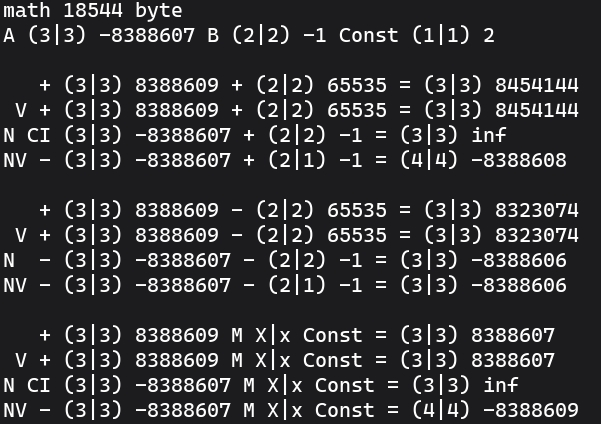
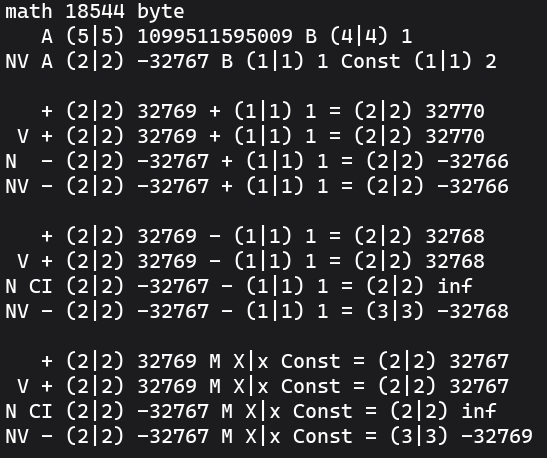
v11.5

diff --git a/math.c b/math.c
@@ -12,15 +12,15 @@ void FInit(anu x, anu y, an r, anu c, an a) { while(x--) *r-- = 0;
   c = (c > y) ? y : c; while(c--) *++r = *a++; }
 void FAddr(anu y, As* r, anu c, As* a) {
   c = (c > y) ? y : c; while(c--) *r++ = *a++; }
-void FSWAP(anu l, an r, an a) { Mat.fa = !(l & 1); Mat.r = r + l; Mat.a = a + l;
-  Mat.na = *a++; *r++ = (l) ? *Mat.a--:0; *Mat.r-- = Mat.na; if ((l >>= 1)) {
-    while(--l) { Mat.na = *a++; *r++ = *Mat.a--; *Mat.r-- = Mat.na; } if (Mat.fa) *r = *a; } }
+void FSWAP(anu l, an r, an a) { Mat.a = a + l; Mat.r = r + l;
+  Mat.da = *a++; *r++ = (l) ? *Mat.a--:Mat.da; *Mat.r-- = Mat.da; l >>= 1;
+  while(l--) { Mat.da = *a++; *r++ = *Mat.a--; *Mat.r-- = Mat.da; } }
 
 void FLD(an r, anu D) { Mat.l = 0;
   Mat.N = Mat.Nim ? (D & 0x80) ? 0xFF:0:0; Mat.F = (D) ? (Mat.Nim && (D == 0x80)) ? 2:0:1; *r = D; }
-void FLVD(an r, anu Dl, anu Dh) { Mat.l = 1; *r++ = Dl; Mat.N = Mat.Nim ? (Dh & 0x80) ? 0xFF:0:0;
+void FLVD(an r, anu Dl, anu Dh) { Mat.l = 1; *r = Dl; Mat.N = Mat.Nim ? (Dh & 0x80) ? 0xFF:0:0;
   if ((Mat.F = (Dl || Dh) ? (!Dl && Mat.Nim && (Dh == 0x80)) ? 2:0:1)) {
-    if (Mat.V) { Mat.l--; *--r = Dh; } return; } *r = Dh;
+    if (Mat.V) { Mat.l--; *r = Dh; } return; } *++r = Dh;
   if (Mat.V && Dh == Mat.N && !(Mat.Nim && ((Dl ^ Mat.N) & 0x80))) Mat.l--; }
 void FMOV(anu l, an r, an a) { Mat.l = l; Mat.e = r; Mat.dr = 0;
   if (r > a) { Mat.r = (r += l); Mat.a = (a += l); while(l--) Mat.dr |= (*--Mat.r = *--Mat.a); }
@@ -29,17 +29,16 @@ void FMOV(anu l, an r, an a) { Mat.l = l; Mat.e = r; Mat.dr = 0;
     if (Mat.V) { *Mat.e = *r; Mat.l = 0; } return; }
   if (Mat.V) { l = Mat.l;
     while(Mat.l && *r == Mat.N && !(Mat.Nim && ((*(r - 1) ^ Mat.N) & 0x80))) { Mat.l--; r--; }
-    if (Mat.Nim && (l - Mat.l) && *r == 0x80) { l = Mat.l; while(l && *--r == 0) l--;
-      Mat.l += !l; } } }
+    if (Mat.Nim && (l - Mat.l) && *r == 0x80) { l = Mat.l; while(l && *--r == 0) l--; Mat.l += !l; } } }
 void FCOLD(anu f, anu l, an r, an a) { Mat.e = r; Mat.l = ((Mat.dr = l)) ? 2:1;
   while((Mat.dr >>= 1)) { Mat.l <<= 1; } Mat.fb = --Mat.l - l;
   if (r > a) { Mat.r = (r += l); Mat.a = (a += l); while(l--) Mat.dr |= (*--Mat.r = *--Mat.a); }
   else { while(l--) Mat.dr |= (*r++ = *a++); } *r = *a; Mat.de = (Mat.N = Mat.Nim ? (*r & 0x80) ? 0xFF:0:0);
   if ((Mat.F = (Mat.dr || *r) ? (Mat.Nim && !Mat.dr && (*r == 0x80)) ? 2:0:1)) { Mat.dr = *r; *r = 0;
     Mat.de = 0; } while(Mat.fb--) { *++r = Mat.de; } *r = Mat.F ? Mat.dr:*r; if (f) Fswap(Mat.l, Mat.e); }
-anu CONST(anu f, an r, anu l, an c) { Mat.nab = Mat.l;
-  if (l--) { if (f) { FSWAP(l, r, c); FMOV(l, r, r); } else FMOV(l, r, c);
-    l = Mat.l; Mat.l = Mat.nab; return l; } l++; *r = 0; Mat.F = 1; Mat.N = 0; return 0; }
+anu CONST(anu f, an r, anu l, an c) {
+  if (l--) { if (f) { FSWAP(l, r, c); FMOV(l, r, r); } else { FMOV(l, r, c); } return Mat.l; }
+  l++; *r = 0; Mat.F = 1; Mat.N = 0; return 0; }
 
 void FADD(an r, an a, anu l, an b) { Mat.e = r; Mat.C = (Mat.C != 0); Mat.dr = 0; Mat.da = 0; Mat.db = 0;
   Mat.a = a + Mat.l; Mat.na = Mat.Nim ? (*Mat.a & 0x80) ? 0xFF:0:0; Mat.F = Mat.l; Mat.N = l;

diff --git a/main.c b/main.c
@@ -10,8 +10,7 @@
 
 #define InputBigEndian 1
 #define OutputBigEndian 0
-#define m 128
-anu la,lb;
+anu la,lb,m = 128;
 
 void Num(anu s, an a) { anu t[m]; if (s > 8) { printf(" %d|? ", s + 1); return; }
   FMOV(s, (an)t, a); a = (an)t; printf("(%d|%d) ", s + 1, Mat.l + 1);
@@ -21,15 +20,16 @@ void Num(anu s, an a) { anu t[m]; if (s > 8) { printf(" %d|? ", s + 1); return; 
   else { if (Mat.l > 3) printf("%lu ", *(uint64_t*)a); else if (Mat.l > 1) printf("%u ", *(uint32_t*)a);
     else if (Mat.l) printf("%u ", *(uint16_t*)a); else printf("%u ", *(uint8_t*)a); } }
 void Show(char s) { anu lr, i = 4; printf("\n"); while(i--) { Mat.Nim = ((3 - i) & 2) ? 1:0; Mat.V = ((3 - i) & 1) ? 1:0;
-    Mat.C = 0; Flong(la, lb); if (s == '+') FAdd(lb, Mat.B); else if (s == '-') FSub(lb, Mat.B);
+    Mat.C = 0; Flong(la); if (s == '+') FAdd(lb, Mat.B); else if (s == '-') FSub(lb, Mat.B);
     else if (s == '*') FMul(lb, Mat.B); else if (s == '/') FDiv(lb, Mat.B); else FSubc(2);
     printf("%c%c%c%c ", Mat.Nim ? 'N':' ', Mat.V ? 'V':' ', Mat.C ? 'C':' ', Mat.F ? (Mat.N ? 'I':'Z'):(Mat.N ? '-':'+'));
     lr = Mat.l; Num(la, Mat.A); printf("%c ", s); if (s == '+' || s == '-' || s == '*' || s == '/') Num(lb, Mat.B);
     else { printf("X|x Const "); } printf("= "); Num(lr, Mat.R); if (s == '/') {
       printf("  %c ", Mat.Fe ? (Mat.Ne ? 'I':'Z') : (Mat.Ne ? '-':'+')); Num(Mat.le, Mat.E); } printf("\n"); } }
 
-int main(void) { anu a[m],b[m],e[m],r[m+m]; Fini(1); Faddr((As)r, (As)e, (As)a, (As)b);
-  printf("A "); Num(la = Const(InputBigEndian, Mat.A, 128,1), Mat.A);
-  printf("B "); Num(lb = Const(InputBigEndian, Mat.B, 255), Mat.B);
-  printf("Const (1|1) 2\n"); Show('+'); Show('-'); Show('M');//Show('*'); Show('/');
-  return 0; }
+int main(void) { anu a[m],b[m],e[m],r[m+m]; Faddr((As)r, (As)e, (As)a, (As)b);
+  Fini(); printf("   A "); Num(Const(InputBigEndian, Mat.A, 255,255,255,128,1), Mat.A);
+  printf("B "); Num(Const(InputBigEndian, Mat.B, 0,0,0,1), Mat.B);
+  Fini(1,1); printf("\nNV A "); Num(la = Const(InputBigEndian, Mat.A, 255,255,255,128,1), Mat.A);
+  printf("B "); Num(lb = Const(InputBigEndian, Mat.B, 0,0,0,1), Mat.B); printf("Const (1|1) 2\n");
+  Show('+'); Show('-'); Show('M');/*Show('*'); Show('/');*/return 0; }

diff --git a/math.h b/math.h
@@ -20,7 +20,7 @@
 // Mat.F{Fe}    [00/XX] {0}число/состояние{{1}не бытиё,{2}бесконечность} результата{остатка}
 // Mat.N{Ne}    [00/FF] для чисел без знаковое или положительное{00} иначе {FF}отрицательное
 // Mat.l        [0.255] длина операнда a, длина результата r
-// Mat.le       [0.255] длина остатка при делении re
+// Mat.le       [0.255] длина остатка e
 typedef uintptr_t As;                           // основа, разрядность процессора
 typedef uint8_t anu;                            // атом, минимальная единица
 typedef anu* an;                                // число, начальный адрес расположения
@@ -28,7 +28,7 @@ typedef struct { anu l, m[254], h, e; } MatBuf;	// 256 атомов + 1 атом
 typedef struct { MatBuf Li, Hi; anu Nim, V, l,  //  представление, возможность изменения длин,
   le, C, F, N, Fe, Ne, fa, na, fb, nb, nab, dr, //  длины, перенос, флаг состояний, знак {r,e,a,b}
   de, da, db; an r, e, a, b, R, E, A, B; } Math;// Структура реализации библиотеки
-void FInit(anu x, anu y, an r, anu c, an a);    // Nim=V=la=..Ne=0 {Nim{,V{,la{,lb}}}}}, {la{,lb}}
+void FInit(anu x, anu y, an r, anu c, an a);    // Nim=V=la=..Ne=0 {Nim{,V{,la}}}, {la}
 void FAddr(anu y, As* r, anu c, As* a);         // {r{,e{,a{,b}}}} (Mat.R = r; ..)
 void FSWAP(anu l, an r, an a);                  // Зеркалирование атомов длиной l относительно центра
 anu CONST(anu f, an r, anu l, an c);            // Копирование из константы в переменную на выходе l

diff --git a/README.md b/README.md
@@ -1,7 +1,7 @@
 [![Cross-Platform Build & Release](https://github.com/AVPscan/Math/actions/workflows/release.yml/badge.svg)](https://github.com/AVPscan/Math/actions/workflows/release.yml)
 
 <div align="center">
-  <h1>Результат запуска v11.2</h1>
+  <h1>Результат запуска v11.5</h1>
   
   <picture>
     <source media="(prefers-color-scheme: dark)" srcset="Plus/971b.jpeg">
@@ -59,7 +59,7 @@
 // Mat.F{Fe}    [00/XX] {0}число/состояние{{1}не бытиё,{2}бесконечность} результата{остатка}
 // Mat.N{Ne}    [00/FF] для чисел без знаковое или положительное{00} иначе {FF}отрицательное
 // Mat.l        [0.255] длина операнда a, длина результата r
-// Mat.le       [0.255] длина остатка при делении re
+// Mat.le       [0.255] длина остатка e
 typedef uintptr_t As;                           // основа, разрядность процессора
 typedef uint8_t anu;                            // атом, минимальная единица
 typedef anu* an;                                // число, начальный адрес расположения
